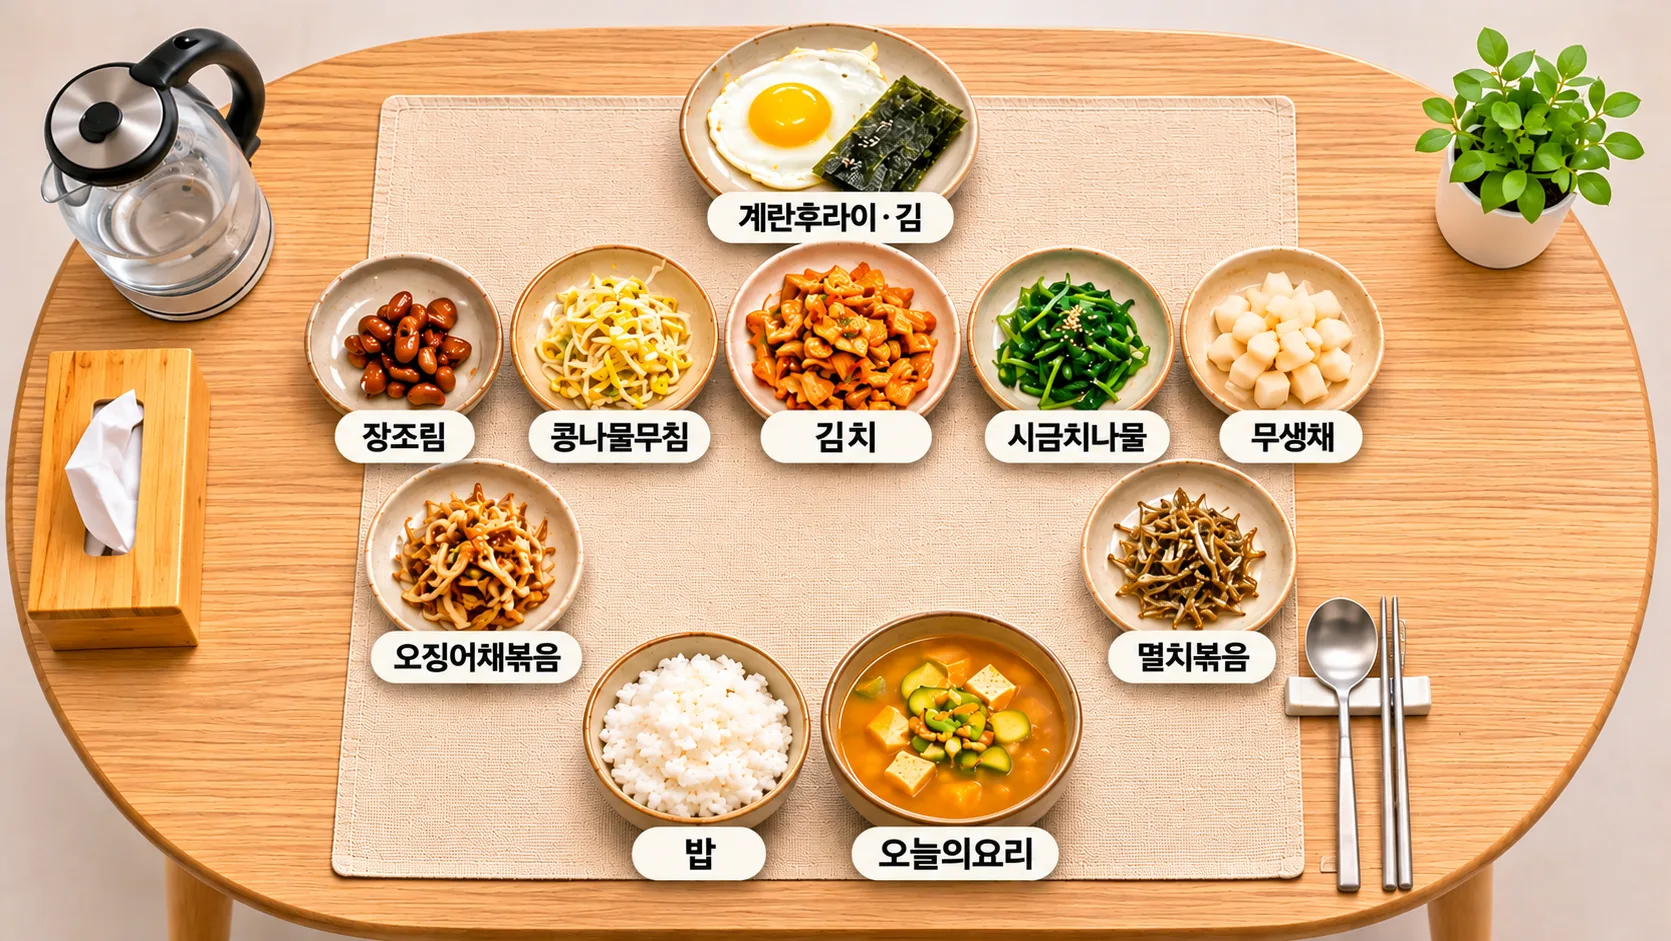
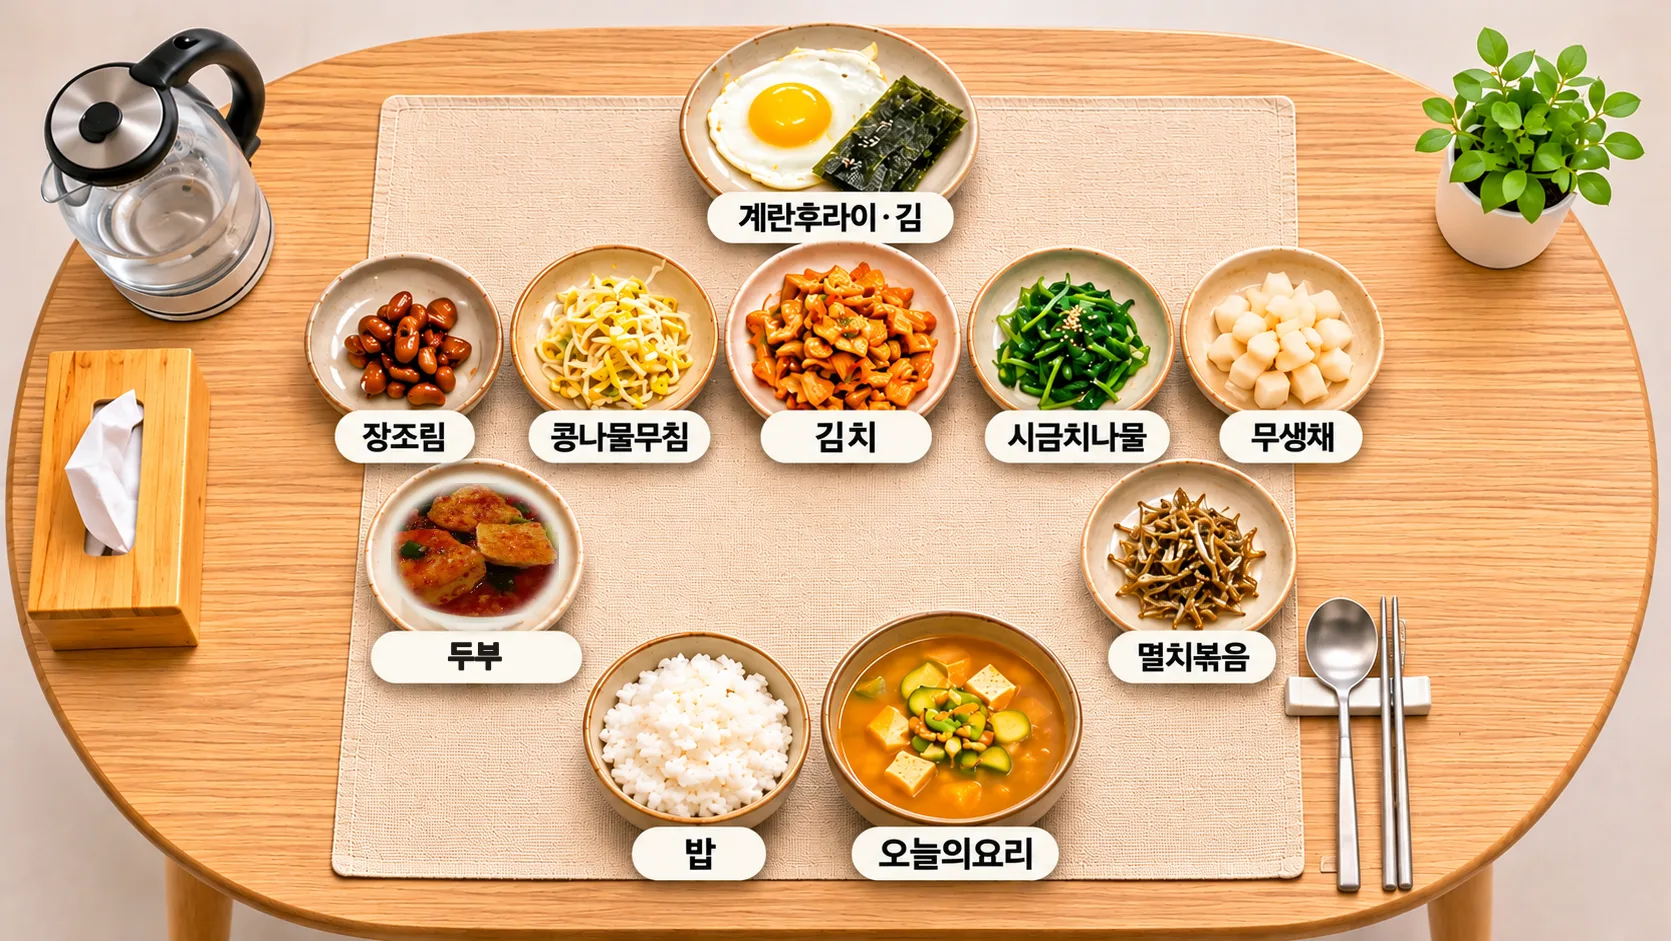
홈 오늘의 밥상: 오징어채볶음을 두부로 바꾸고 그릇 사진도 두부로 교체

Changed region(s): [[0.2178, 0.4931, 0.3423, 0.7088]]

diff --git a/src/components/MyTable.jsx b/src/components/MyTable.jsx
@@ -67,7 +67,7 @@ export function BabSangPanel() {
     <section className="panel bab-sang-panel" aria-labelledby="bab-sang-h">
       <h2 id="bab-sang-h"><span aria-hidden>🥢</span> 오늘의 밥상</h2>
       <div className="bab-sang"><div className="bab-sang-in">
-        <img src="./bab-sang.webp" alt={`밥, 반찬과 ${r ? r.title : '오늘의 요리'}가 차려진 밥상`} loading="lazy" decoding="async" />
+        <img src="./bab-sang.webp?v=2" alt={`밥, 반찬과 ${r ? r.title : '오늘의 요리'}가 차려진 밥상`} loading="lazy" decoding="async" />
         {r && (
           <button className="bs-today" onClick={open} aria-label={`오늘의 레시피 ${r.title} 보기`}>
             <span className="bs-bowl"><Plate recipe={r} size="lg" /></span>
